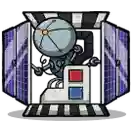
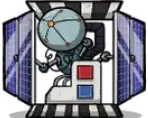
Fix: Adjust spacing and image styles in Cell component
Cellコンポーネントの間隔調整と画像スタイルの修正を行いました。
具体的には、`gap`と`padding`を追加してレイアウトのバランスを改善し、画像が枠内で適切に表示されるように`object-fit: contain`を適用しました。また、テキスト部分に対してレイアウトを調整し、デザインの一貫性を向上させました。併せて、関連する画像ファイルを更新しました。

diff --git a/src/components/Cell.module.sass b/src/components/Cell.module.sass
@@ -9,8 +9,9 @@
       flex-direction: column
       justify-content: center
       align-items: center
+      gap: 8px 0
       box-sizing: border-box
-      padding: 4px
+      padding: 8px 0 4px 0
       cursor: pointer
       transition: background-color .1s ease-in-out
       &.selected
@@ -18,9 +19,15 @@
       &:hover
         background-color: rgba(255,255,255,.3)
     .image
-      flex: 0 0 65px
+      flex: 0 0 64px
+      max-height: 64px
+      img
+        width: 100%
+        height: 100%
+        object-fit: contain
+
     .name
-      flex: 0 0 2em
+      flex: 0 0 3em
       font-family: var(--font-barriecito)
       font-style: normal
       font-weight: 700
@@ -28,3 +35,7 @@
       line-height: 1
       color: #F8F8F8
       text-align: center
+
+      display: flex
+      align-items: center
+      justify-content: center
